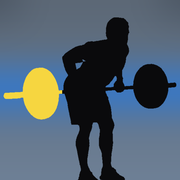
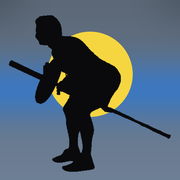
Ícono: atleta haciendo remo con barra de lado
Claude-Session: https://claude.ai/code/session_016XHkuFnVc48ChagQSpCNPX

Changed region(s): [[0.0, 0.0833, 1.0, 1.0], [0.4167, 0.3333, 0.4722, 0.3889]]

diff --git a/sw.js b/sw.js
@@ -1,4 +1,4 @@
-const CACHE='rutina-v4';
+const CACHE='rutina-v5';
 const FILES=['./','./index.html','./manifest.webmanifest','./icon-192.png','./icon-512.png','./icon-maskable-512.png','./apple-touch-icon.png'];
 self.addEventListener('install',e=>{e.waitUntil(caches.open(CACHE).then(c=>c.addAll(FILES)).then(()=>self.skipWaiting()));});
 self.addEventListener('activate',e=>{e.waitUntil(caches.keys().then(ks=>Promise.all(ks.filter(k=>k!==CACHE).map(k=>caches.delete(k)))).then(()=>self.clients.claim()));});
